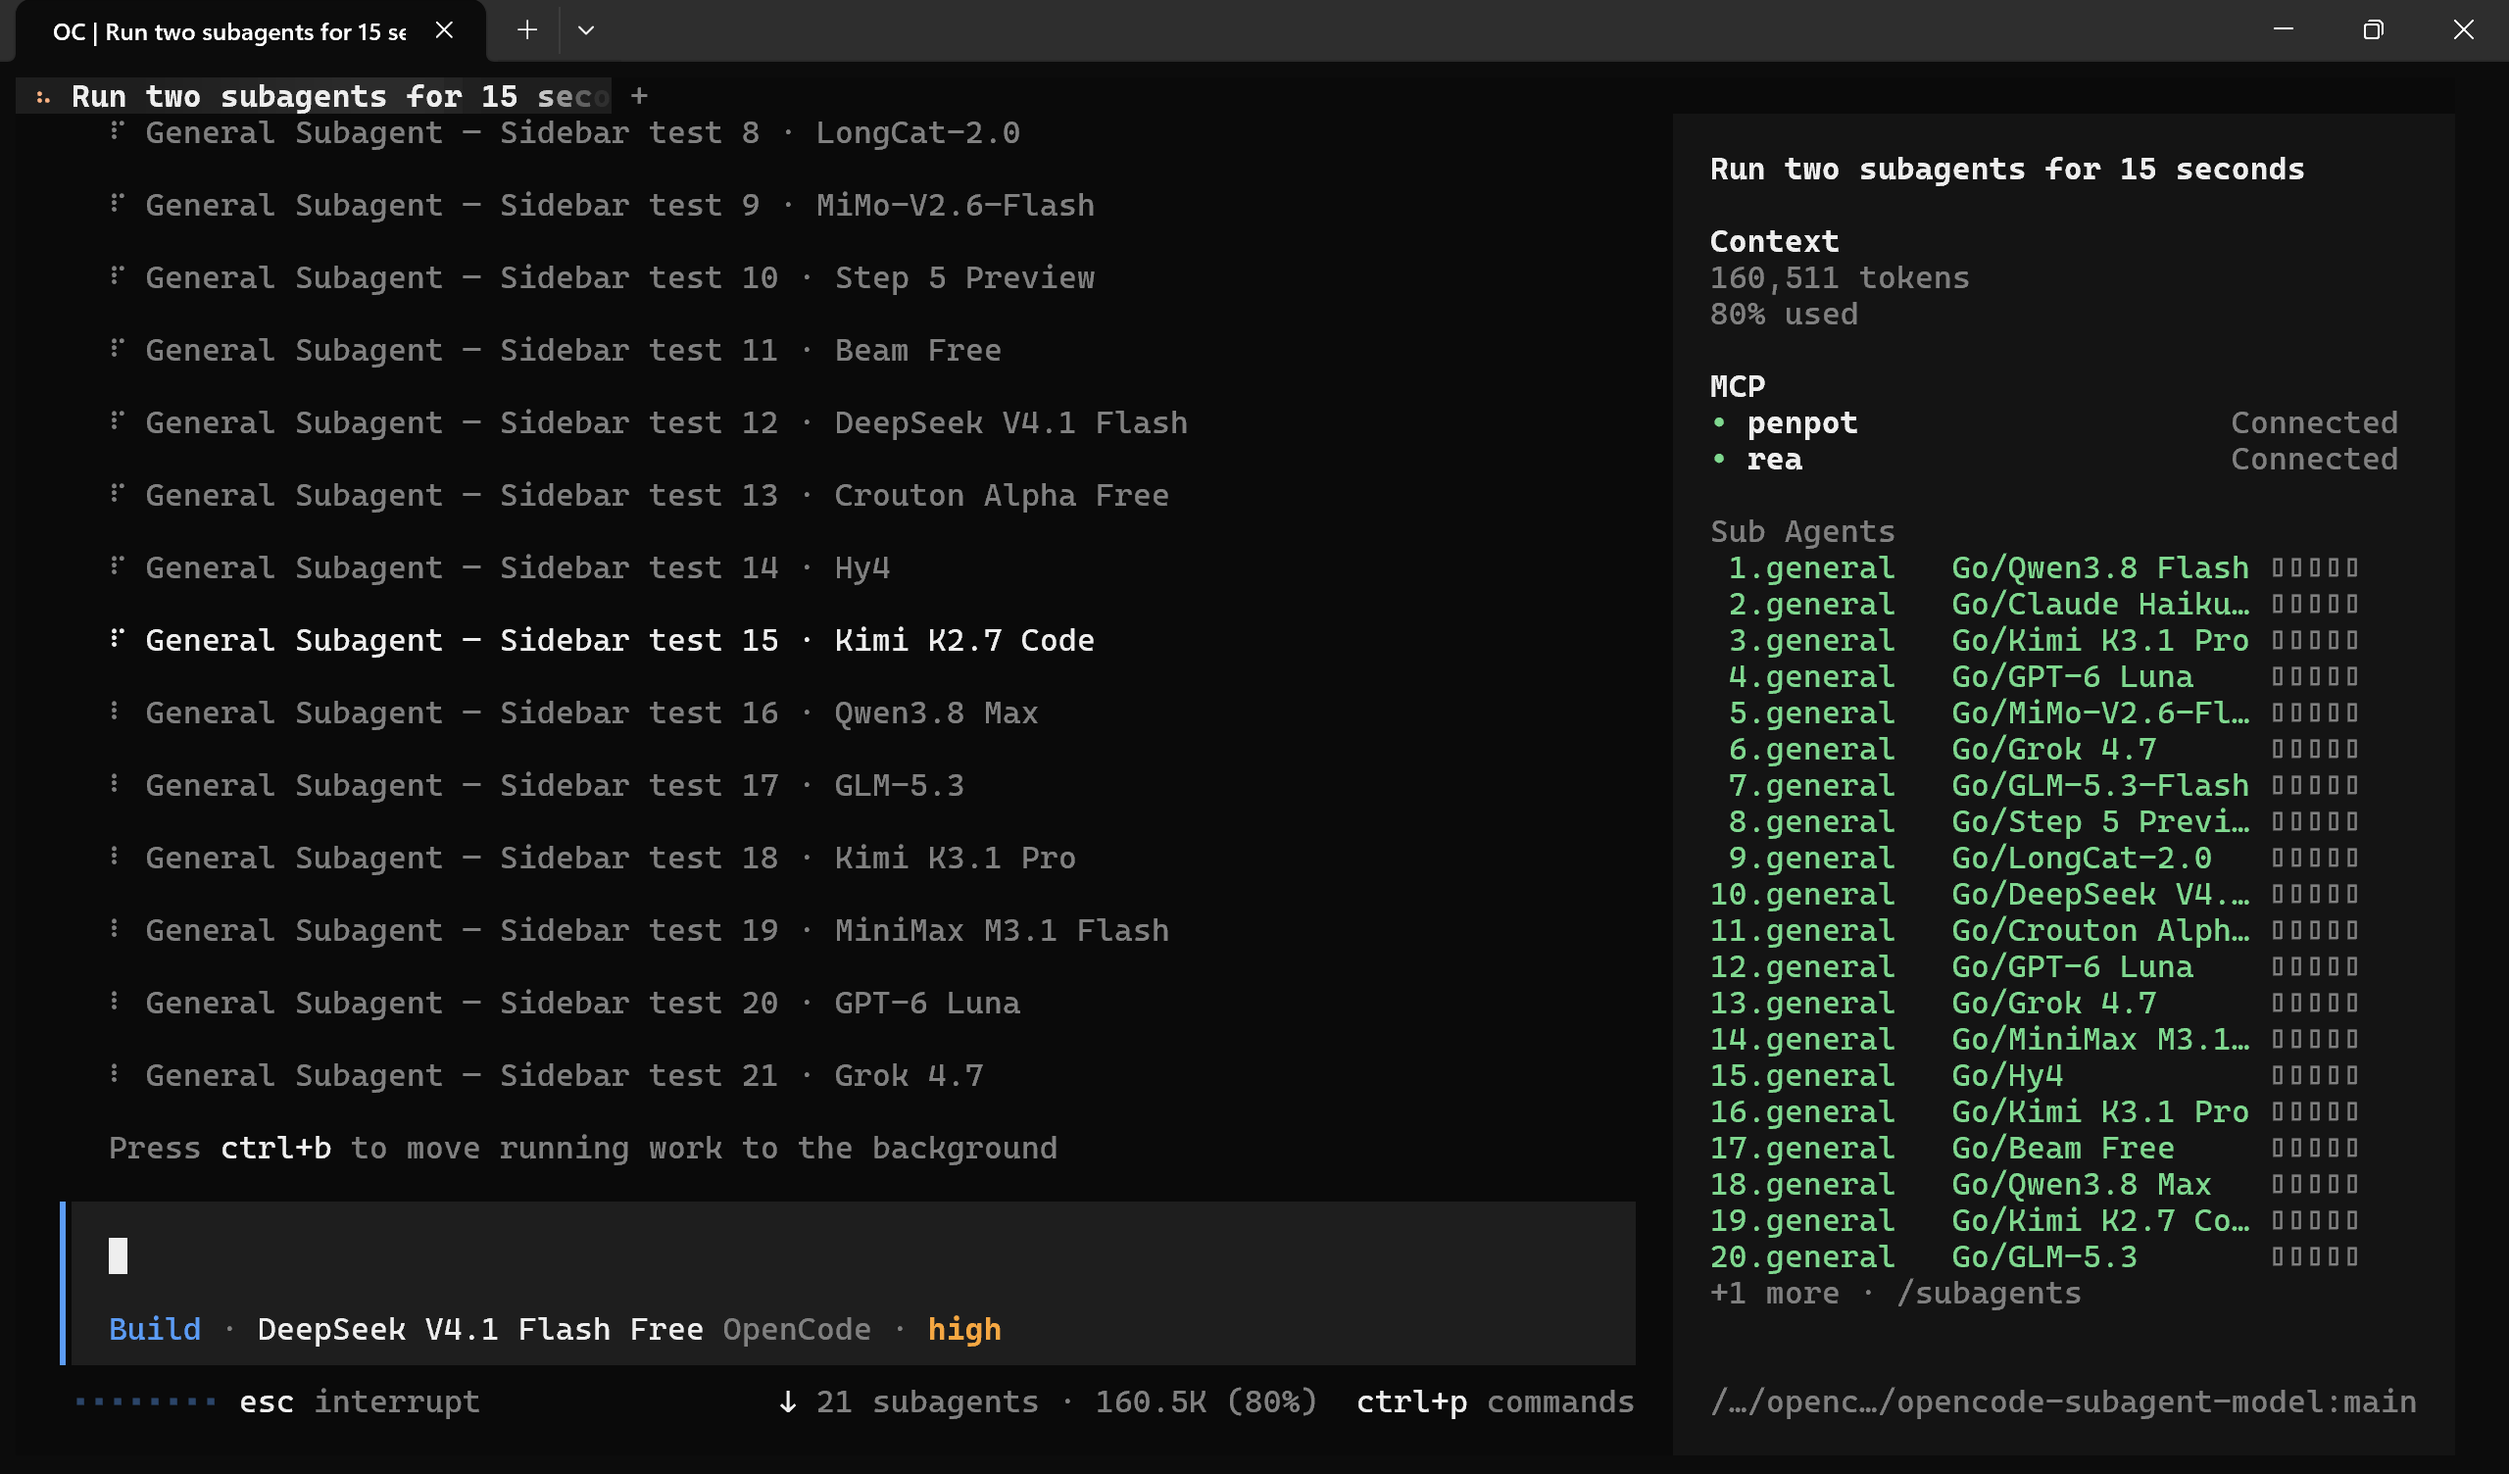
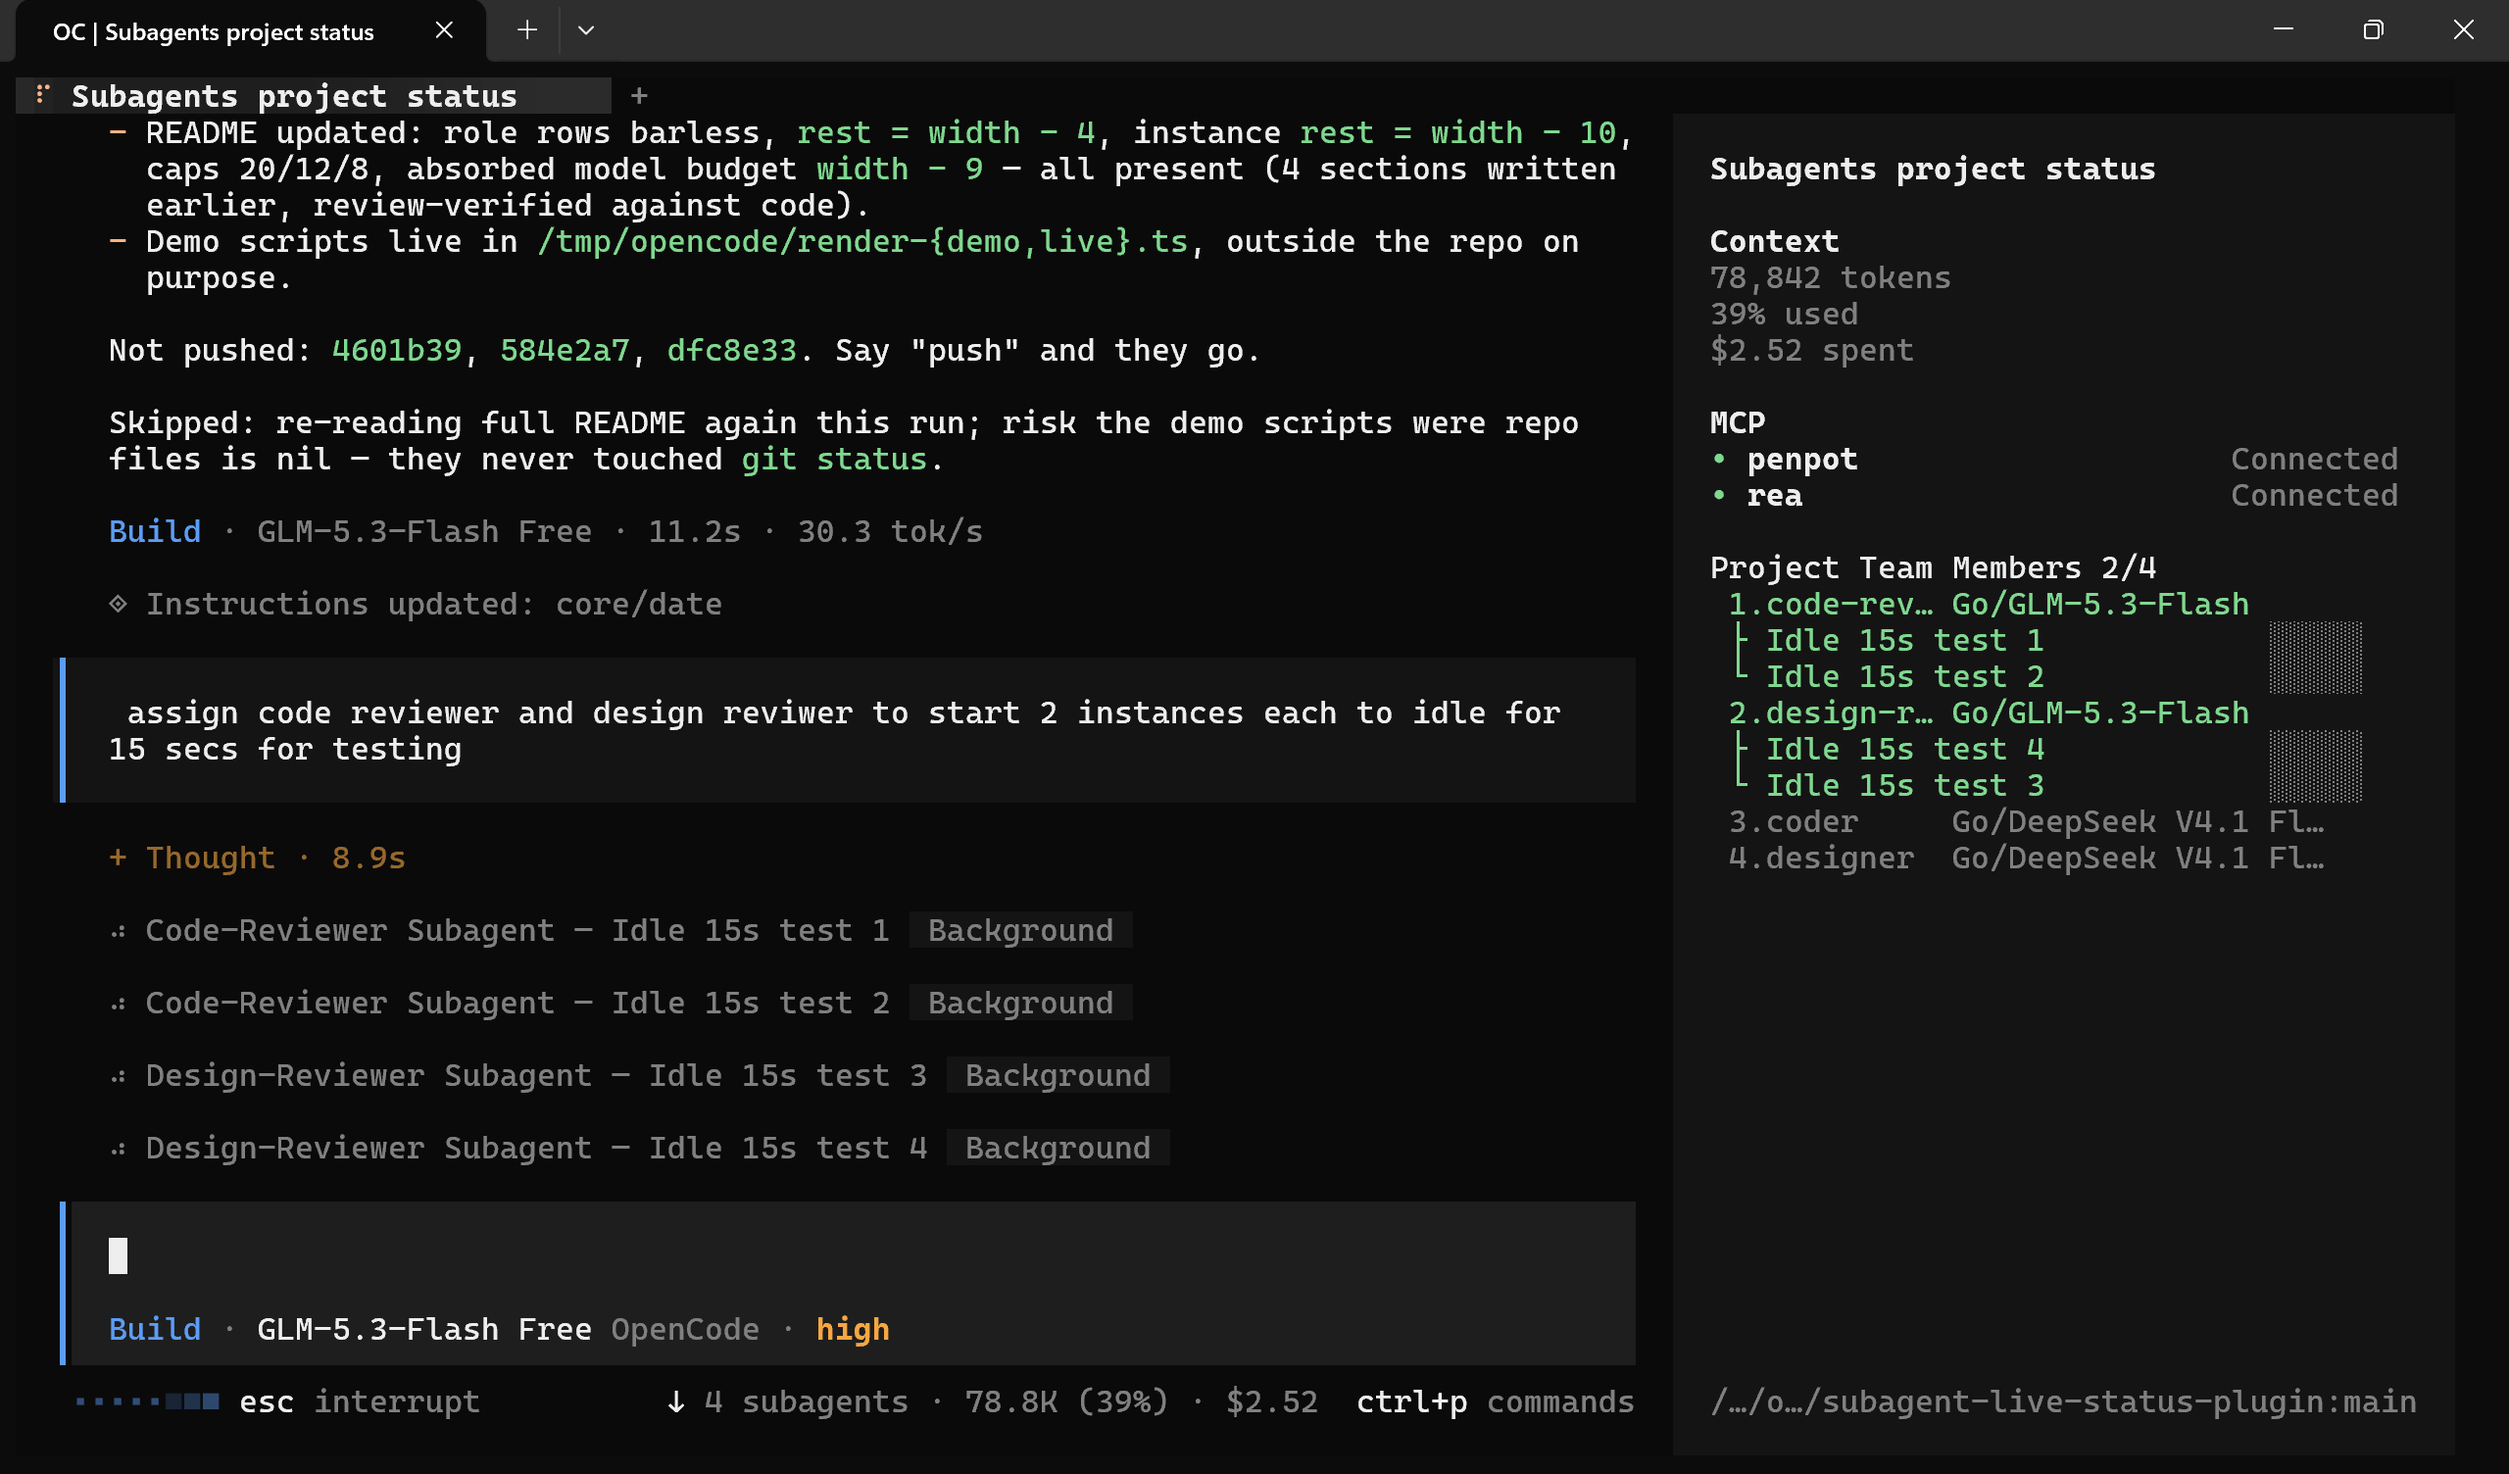
Correct README drift against code; ship updated screenshot; 1.4.1

diff --git a/README.md b/README.md
@@ -8,7 +8,7 @@ This plugin shows which model each active subagent is using, so you can quickly 
 
 It is especially useful when you use different models for your main agent and subagents and want to confirm that each subagent is using the intended model from its configuration.
 
-Current version: `1.4.0`
+Current version: `1.4.1`
 
 Project renamed to `subagent-live-status-plugin` (was `opencode-subagent-model`); plugin id, storage namespace, and command ids move with it — the persisted compact toggle resets once.
 
@@ -58,7 +58,7 @@ Role rows are numbered (` 1.`, `20.` reserved), instance rows are unnumbered. Bo
 
 Row width is measured at runtime, from your terminal itself — no config needed. In priority order: (1) the renderer's own layout tree knows the sidebar container's width in cells (authoritative), (2) terminal pixel width and cell metrics estimate the width, and (3) the configured fallback width is used.
 
-The model label clips when the row is too tight: the provider keeps at most half of the budget, and the model name takes the rest. On an instance row one separator cell sits between the model columns.
+The model label clips when the row is too tight: the provider keeps at most half of the budget, and the model name takes the rest. On an instance row one separator cell sits between the model field and the boxes; the boxes are tight against each other, and role rows have neither.
 
 **How to read the boxes.** The boxes show an instance's measured output speed; each filled box is a step up in real speed, not a proportional fraction.
 
@@ -92,9 +92,9 @@ sub 3
 
 ## How it works
 
-Which agents the panel shows is decided once per session as a snapshot: with at least one agent definition in `.opencode/agents` (charter mode) it lists only those definitions (skipping agents marked `hidden: true`). Without definitions, it falls back to all discovered agents except `hidden: true`.
+Which agents the panel shows is decided once per session as a snapshot: with at least one agent definition in `.opencode/agents` (charter mode) it lists only those definitions (skipping agents marked `hidden: true` or `primary`), and built-in agents appear only as temporary rows while one of their sessions runs in this tab. Without definitions, it falls back to all discovered agents except `hidden: true` and `primary`. Mid-session changes to `.opencode/agents` take effect on the next session, not the running one.
 
-A session becomes an instance row when it is a child session currently marked `running`, and it belongs to the tab the viewer is in. A session that ended with `outcome: failed` or `interrupted` stays visible in warning colour for 30 seconds, then disappears.
+A session becomes an instance row when it is a child session currently marked `running`, and it belongs to the tab the viewer is in. A session that ended with `outcome: failed` or `interrupted` stays visible in warning colour for 30 seconds, then folds back into its role row; when the role existed only as a temporary built-in row for that session, the row disappears with it.
 
 The title counts how many roles have a working instance.
 
@@ -105,13 +105,13 @@ It resolves the instance model in this order:
 3. the nearest parent session model
 4. `unknown model`
 
-So an instance may resolve a model different from its role's `agent.md` — a per-session override wins. The panel shows the instance's model label only when it carries information: when the resolved model differs from the role's configured model.
+So an instance may resolve a model different from its role's `agent.md` — a per-session override wins. The panel shows the instance's model label only when it carries information: when the resolved model differs from the role's model, or when the instance's model is unknown.
 
 The displayed label follows the format `ProviderName/ModelName`, and appends ` (variant)` when relevant. If a label is missing, the plugin falls back to the provider or model ID.
 
 The sidebar rows use the short form: the provider's last word (`OpenCode Go` → `Go`) and no variant.
 
-The speed bar is computed from the instance's own assistant messages: output tokens divided by the time they streamed, so it reports tokens per second. The five boxes fill in bands: 1 box at 5–19.9 tokens/sec, 2 at 20–49.9, 3 at 50–69.9, 4 at 70–100, and 5 above 100. Below 5, all boxes are empty.
+The speed bar is computed from the instance's own assistant messages: output tokens divided by the time they streamed, so it reports tokens per second. The five boxes fill in bands: 1 box at 5–19.9 tokens/sec, 2 at 20–49.9, 3 at 50–69.9, 4 at 70–100, and 5 above 100 (100.0 exactly stays in the four-box band). Below 5, all boxes are empty, as they are while the speed is still unknown.
 
 The plugin syncs each running subagent session (session and messages) into the TUI data layer when the session appears on the panel or when its execution starts, then re-syncs the session's messages as new assistant output arrives.
 
